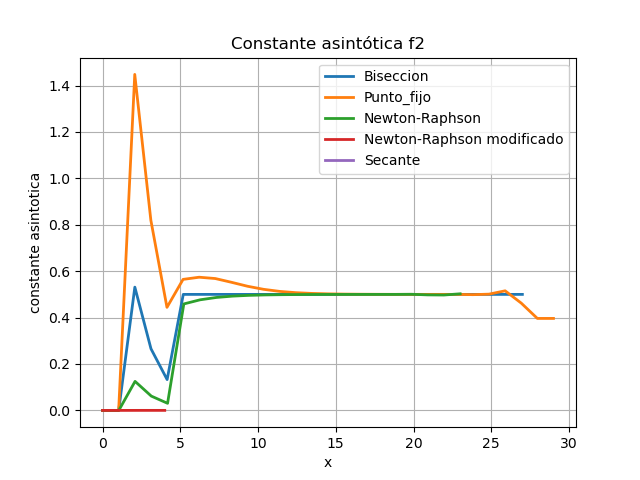
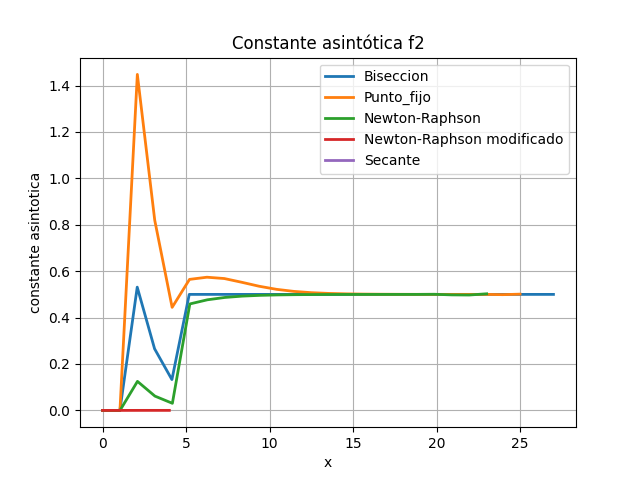
Modifico tablas y hago plt.show() al final de cada una

diff --git a/tp1/ejercicio3raices/item_e/constantes_asintoticas/constante_f2.py b/tp1/ejercicio3raices/item_e/constantes_asintoticas/constante_f2.py
@@ -31,8 +31,8 @@ y3 = lambda_secante2[0]
 
 x4 = np.linspace(0, len(modos.nr_modificado2[0]), len(modos.nr_modificado2[0]))
 y4 = lambda_nr_modificado2
-x5 = np.linspace(0, len(modos.pfijo2[0]), len(modos.pfijo2[0]))
-y5 = lambda_pf2
+x5 = np.linspace(0, len(modos.pfijo2[0]) - 4, len(modos.pfijo2[0]) - 4)
+y5 = lambda_pf2[0:len(modos.pfijo2[0]) - 4]
 
 plt.plot(x1, y1, '-', lw=2, label='Biseccion')
 plt.plot(x5, y5, '-', lw=2, label='Punto_fijo')
@@ -48,5 +48,6 @@ plt.ylabel('constante asintotica')
 plt.legend(loc='best')
 plt.grid(True)
 
-
 plt.savefig("constante_f2.png")
+
+plt.show()

diff --git a/tp1/ejercicio3raices/item_e/ordenes/convergencia_f1.py b/tp1/ejercicio3raices/item_e/ordenes/convergencia_f1.py
@@ -24,7 +24,8 @@ y2 = orden_nr1[0:len(nr1[0])-2]
 x3 = np.linspace(0, len(secante1[0])-4, len(secante1[0])-4)
 y3 = orden_secante1[0:len(secante1[0])-4]
 
-x4 = np.linspace(0, len(nr_modificado1[0])-2, len(nr_modificado1[0])-2)
+x4 = nplt.show()
+p.linspace(0, len(nr_modificado1[0])-2, len(nr_modificado1[0])-2)
 y4 = orden_nr_modificado1[0:len(nr_modificado1[0])-2]
 
 x5 = np.linspace(0, len(pfijo1[0]), len(pfijo1[0]))
@@ -46,3 +47,5 @@ plt.legend(loc='best')
 plt.grid(True)
 
 plt.savefig("convergencia1.png")
+
+plt.show()

diff --git a/tp1/ejercicio3raices/item_e/ordenes/convergencia_f2.py b/tp1/ejercicio3raices/item_e/ordenes/convergencia_f2.py
@@ -27,8 +27,8 @@ y3 = orden_secante2[0:len(secante2[0])]
 x4 = np.linspace(0, len(nr_modificado2[0]), len(nr_modificado2[0]))
 y4 = orden_nr_modificado2[0:len(nr_modificado2[0])]
 
-x5 = np.linspace(0, len(pfijo2[0]), len(pfijo2[0]))
-y5 = orden_pf2[0:len(pfijo2[0])]
+x5 = np.linspace(0, len(pfijo2[0]) - 4, len(pfijo2[0]) - 4)
+y5 = orden_pf2[0:len(pfijo2[0]) - 4]
 
 
 plt.plot(x1, y1, '-', lw=2, label='Biseccion')
@@ -46,3 +46,5 @@ plt.legend(loc='best')
 plt.grid(True)
 
 plt.savefig("convergencia2.png")
+
+plt.show()

diff --git a/tp1/ejercicio3raices/item_g/comparacion_ordenes.py b/tp1/ejercicio3raices/item_g/comparacion_ordenes.py
@@ -35,8 +35,8 @@ plt.figure()
 
 
 plt.plot(ordenb2[:], '-', lw=2, label='Biseccion')
-plt.plot(orden_pf2[:], '-', lw=2, label='Punto fijo')
-plt.plot(orden_nr2[:], '-', lw=2, label='NR')
+plt.plot(orden_pf2[0:len(orden_pf2) - 3], '-', lw=2, label='Punto fijo')
+plt.plot(orden_nr2[0:len(orden_nr2) - 3], '-', lw=2, label='NR')
 plt.plot(orden_nr_modificado2[:], '-', lw=2, label='Newton-Raphson modificado')
 plt.plot(orden_secante2[:], '-', lw=2, label='Secante')
 

diff --git a/tp1/ejercicio3raices/item_e/constantes_asintoticas/constante_f1.py b/tp1/ejercicio3raices/item_e/constantes_asintoticas/constante_f1.py
@@ -55,3 +55,5 @@ plt.grid(True)
 
 
 plt.savefig("constante_f1.png")
+
+plt.show()
